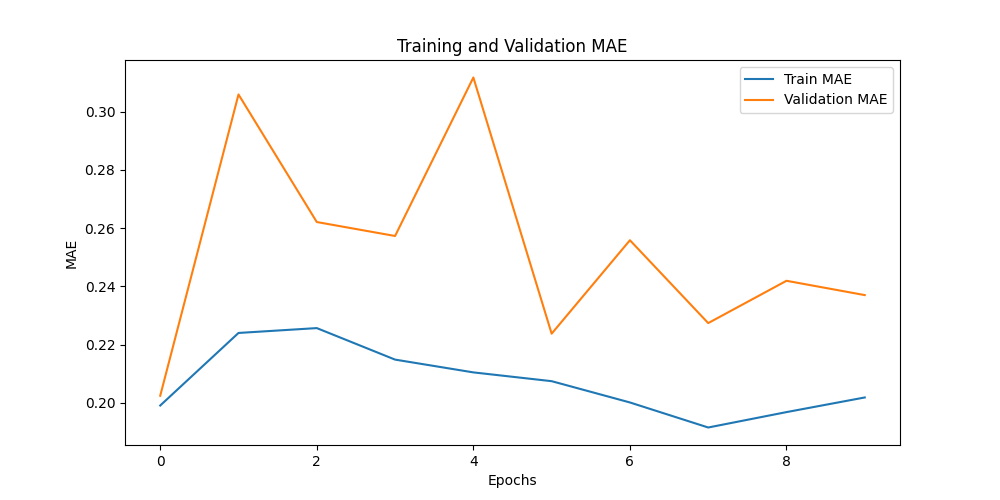
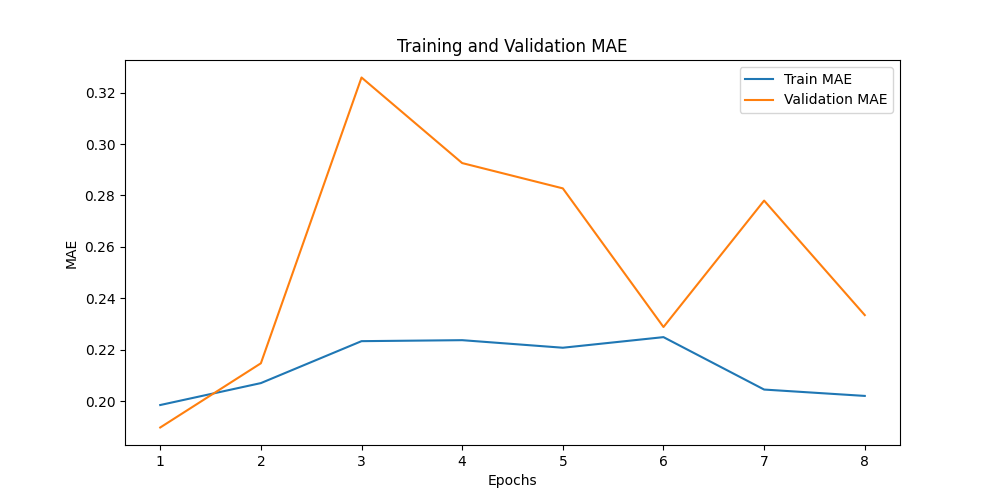
fix(model): last model and plots

diff --git a/utils/models/model.py b/utils/models/model.py
@@ -19,11 +19,11 @@ class NET(nn.Module):
         self.down_conv2 = DownSampling(2*channels, 4*channels)
 
         self.conv3 = DoubleResnet(4*channels)
-        self.drop3 = nn.Dropout2d(0.2)
+        self.drop3 = nn.Dropout2d(0.4)
         self.down_conv3 = DownSampling(4*channels, 8*channels)
 
         self.conv4 = DoubleResnet(8*channels)
-        self.drop4 = nn.Dropout2d(0.2)
+        self.drop4 = nn.Dropout2d(0.4)
         self.down_conv4 = DownSampling(8*channels, 16*channels)
 
         self.global_avg_pooling = nn.AdaptiveAvgPool2d(1)
